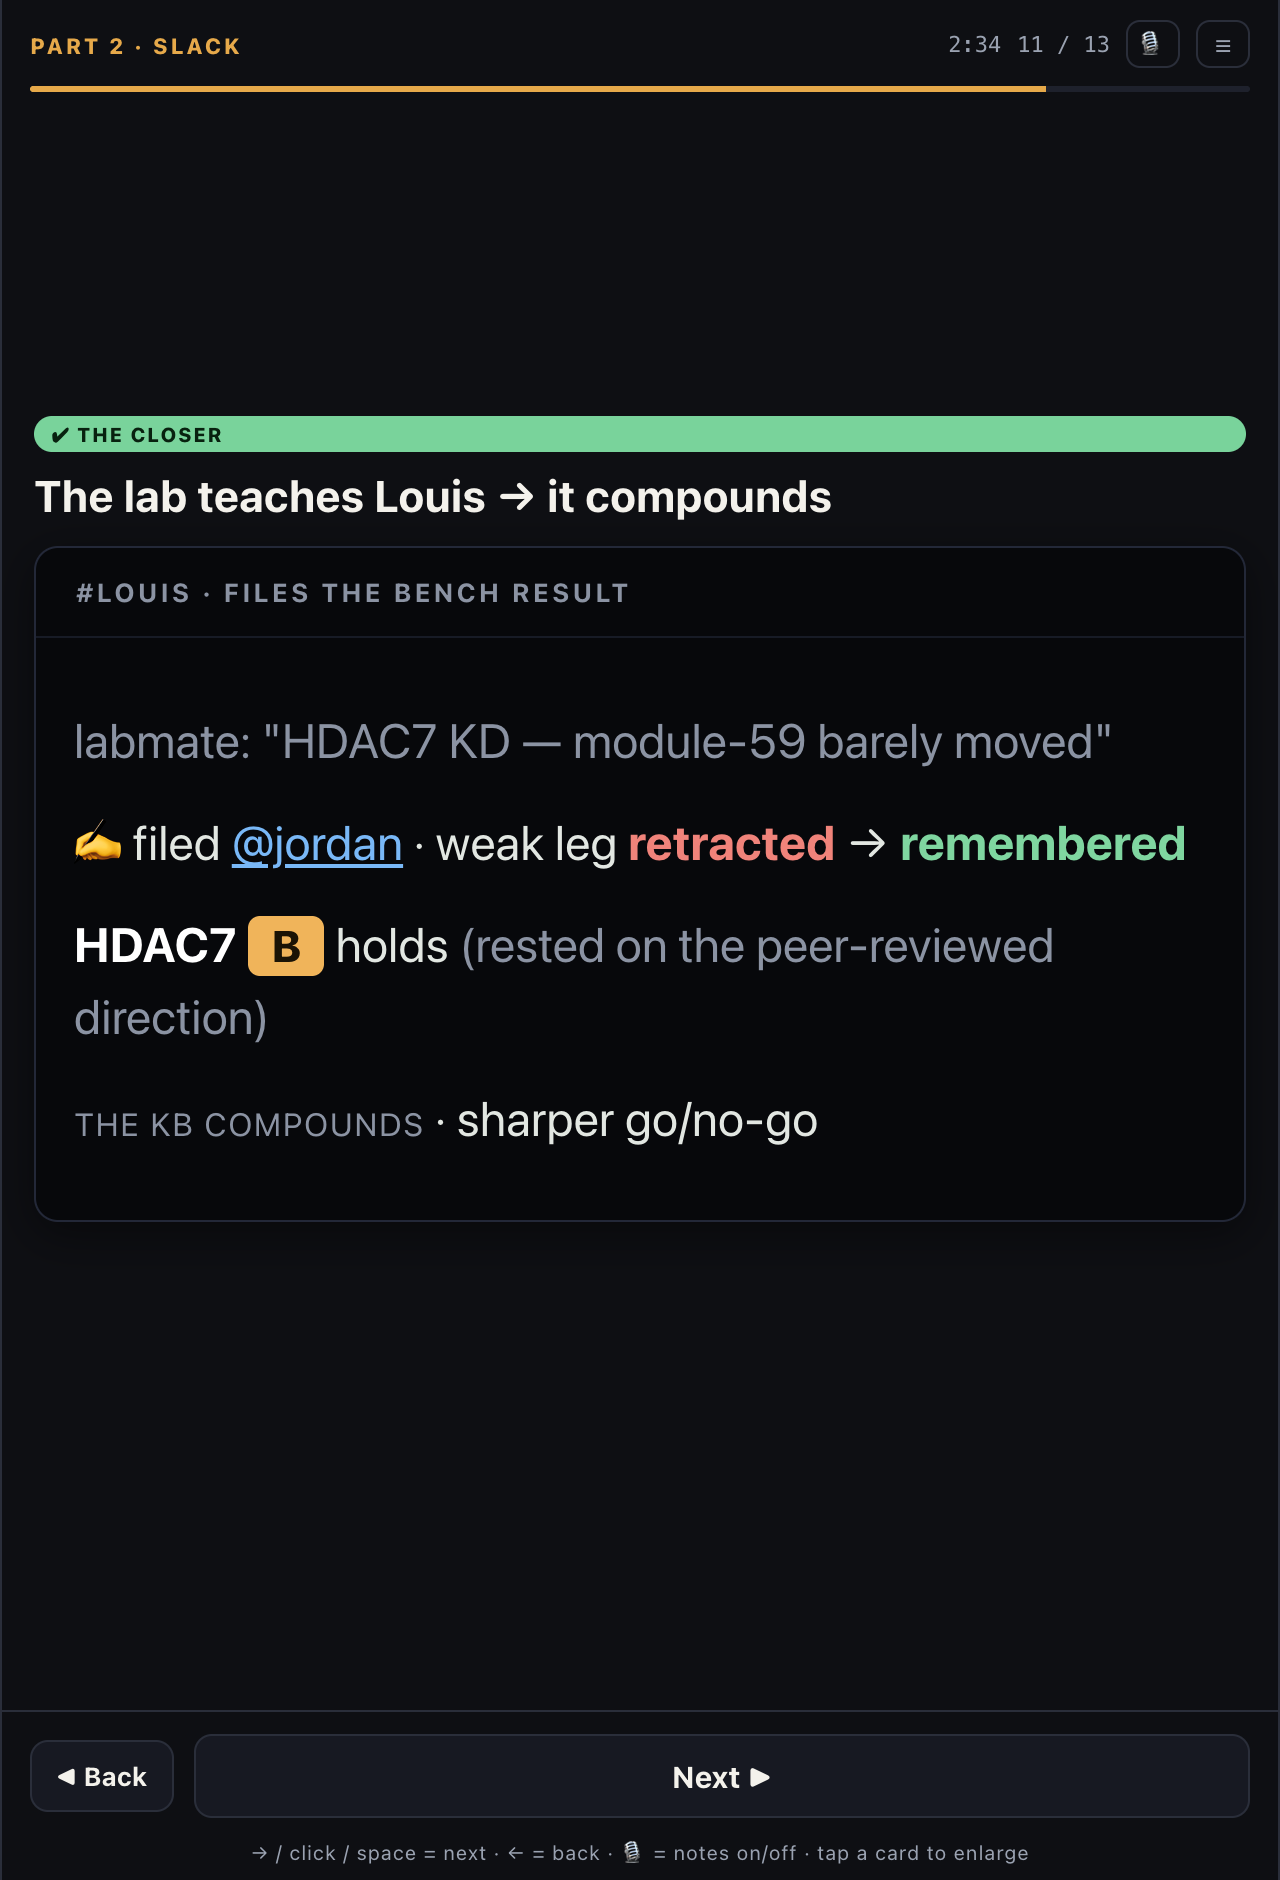
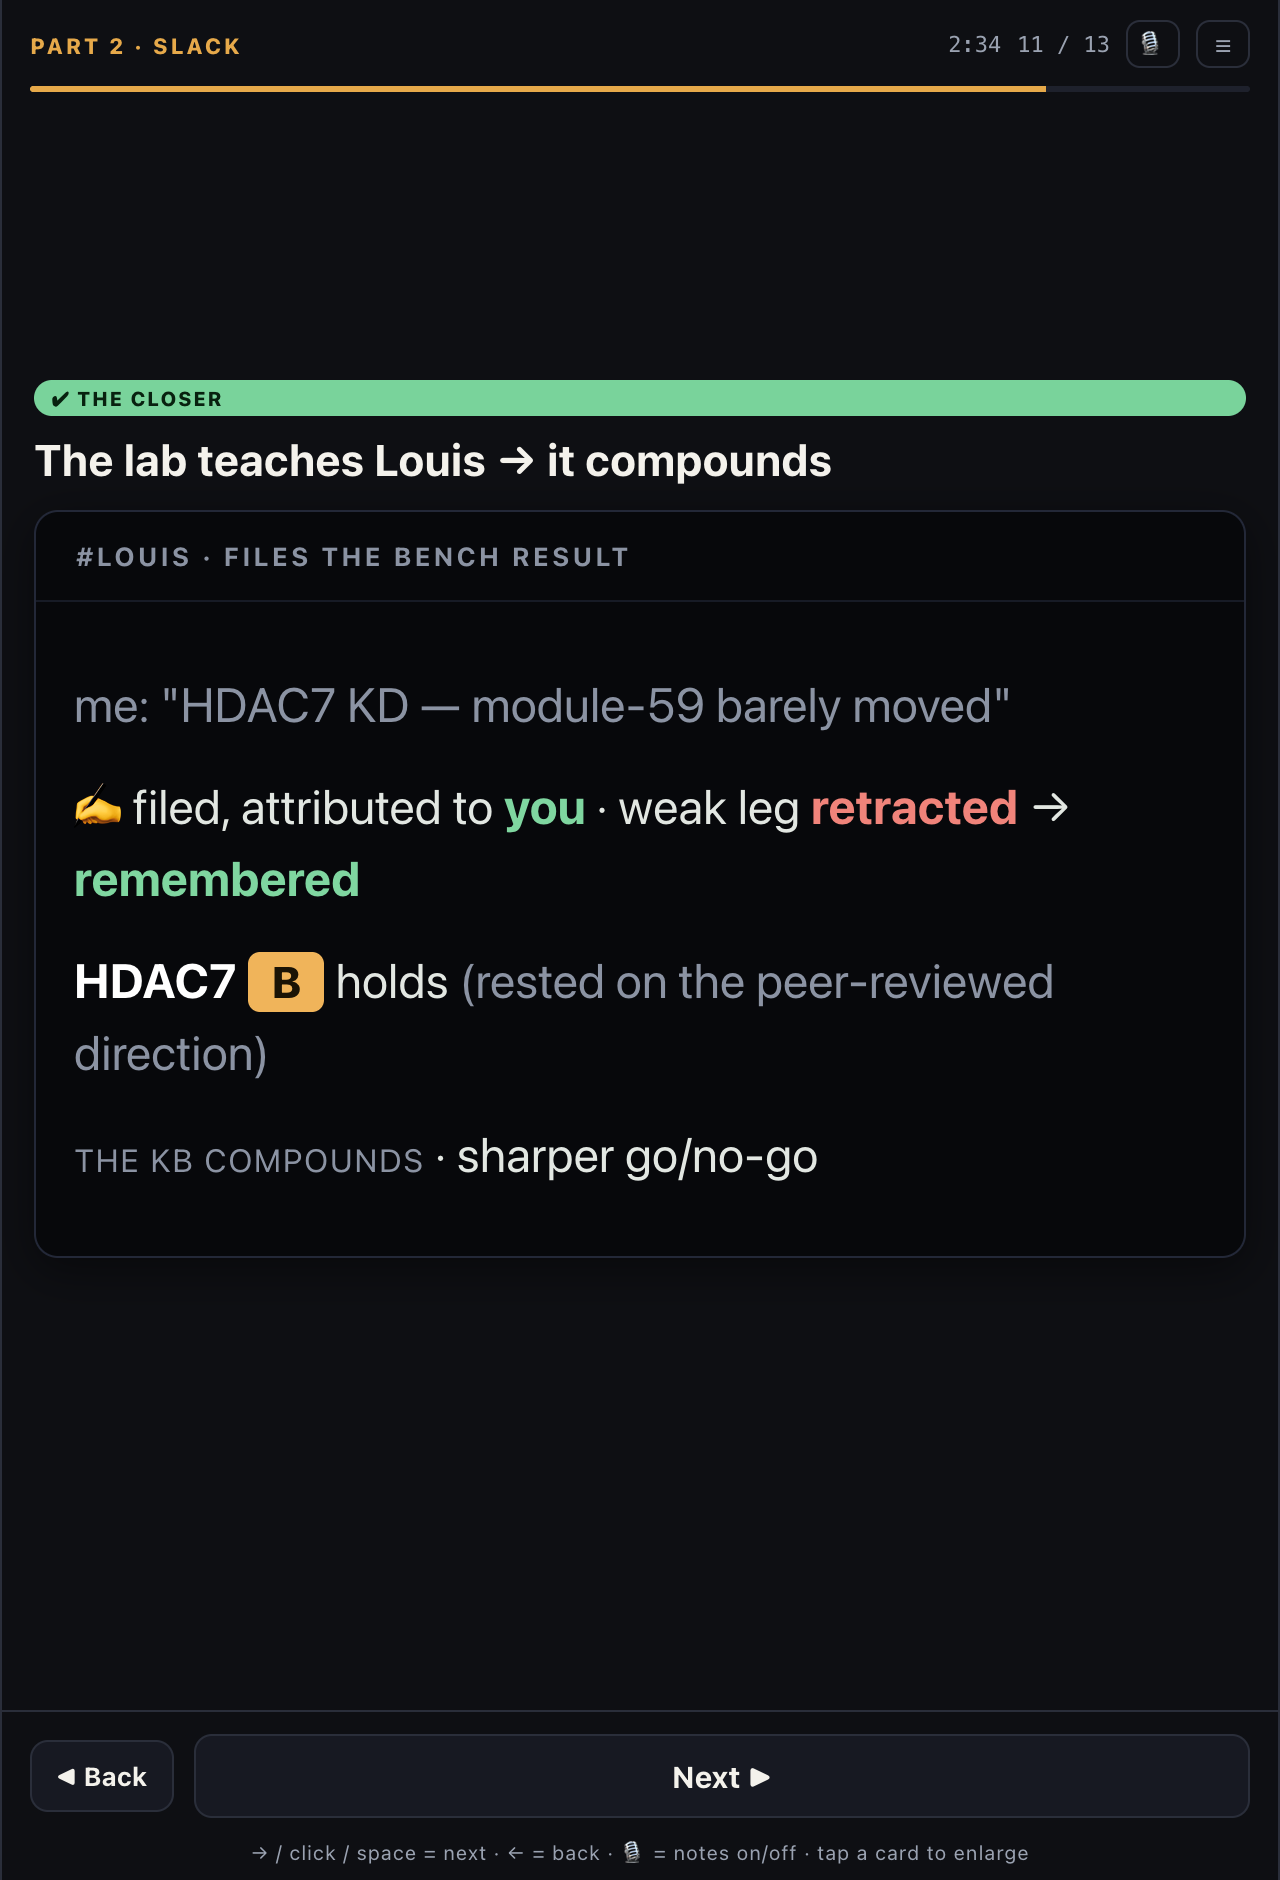
Demo: write-read beat is first-person (drop the Jordan/labmate framing)
Name resolution (users:read) was not resolving the second account (it filed a raw Slack
id), so the loop is cleaner run from one account: I report a bench result, Louis files it
under my name, the B holds. Slide 11 narration and cue updated (labmate to me; at-jordan to
"attributed to you"), and deck_11.png regenerated. The recording deck (_inbox, gitignored)
gets the same change plus first-person copy-prompt buttons.

Changed region(s): [[0.0625, 0.3702, 0.9375, 0.6479], [0.0312, 0.1851, 0.9688, 0.3394]]

diff --git a/demo/presenter.html b/demo/presenter.html
@@ -245,9 +245,9 @@
       <span class="tag close">✔ The closer</span>
       <p class="title">The lab teaches Louis → it compounds</p>
       <div class="sayLbl">🎙 Say</div>
-      <div class="say">And here's the payoff of a tool that <b>learns</b>: a labmate reports a bench result, Louis files it <b>under their name</b>, retracts the weak leg — but the lead holds on what's still solid, with a sharper next experiment. The knowledge <b>compounds</b>, and the whole lab teaches it. Discover, validate, defend, <b>learn — together</b>.</div>
-      <div class="cue"><div class="cuebar"><span class="cuelbl">#louis · files the bench result</span><span class="cueexp">tap to enlarge</span></div><div class="cuebody"><div class="row dim">labmate: "HDAC7 KD — module-59 barely moved"</div><div class="row">✍️ filed <span class="lnk">@jordan</span> · weak leg <span class="kill">retracted</span> → <span class="ok">remembered</span></div><div class="row"><b style="color:#fff">HDAC7</b> <span class="gB">B</span> holds <span class="dim">(rested on the peer-reviewed direction)</span></div><div class="row"><span class="k">the KB compounds</span> · sharper go/no-go</div></div></div>
-      <div class="do">▶ Post the labmate msg. 🔦 <span class="hl">Highlight:</span> "filed @jordan" + "HDAC7 B holds".</div>
+      <div class="say">And here's the payoff of a tool that <b>learns</b>: I report a bench result, Louis files it <b>under my name</b>, retracts the weak leg — but the lead holds on what's still solid, with a sharper next experiment. The knowledge <b>compounds</b>, and the whole lab teaches it. Discover, validate, defend, <b>learn — together</b>.</div>
+      <div class="cue"><div class="cuebar"><span class="cuelbl">#louis · files the bench result</span><span class="cueexp">tap to enlarge</span></div><div class="cuebody"><div class="row dim">me: "HDAC7 KD — module-59 barely moved"</div><div class="row">✍️ filed, attributed to <span class="ok">you</span> · weak leg <span class="kill">retracted</span> → <span class="ok">remembered</span></div><div class="row"><b style="color:#fff">HDAC7</b> <span class="gB">B</span> holds <span class="dim">(rested on the peer-reviewed direction)</span></div><div class="row"><span class="k">the KB compounds</span> · sharper go/no-go</div></div></div>
+      <div class="do">▶ Post the write, then the read. 🔦 <span class="hl">Highlight:</span> "attributed to you" + "HDAC7 B holds".</div>
     </section>
 
     <!-- 10b · SIGNAL — the third edge: reads + tiers the pre-paper floor -->